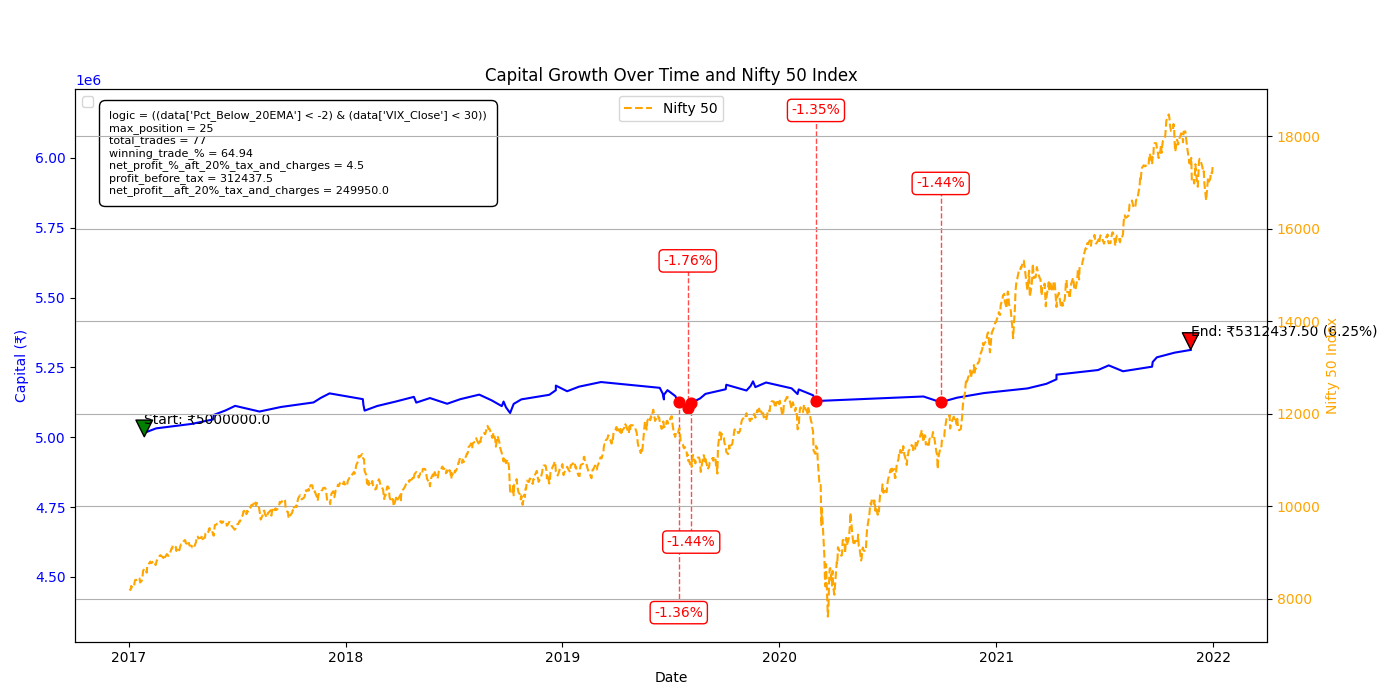
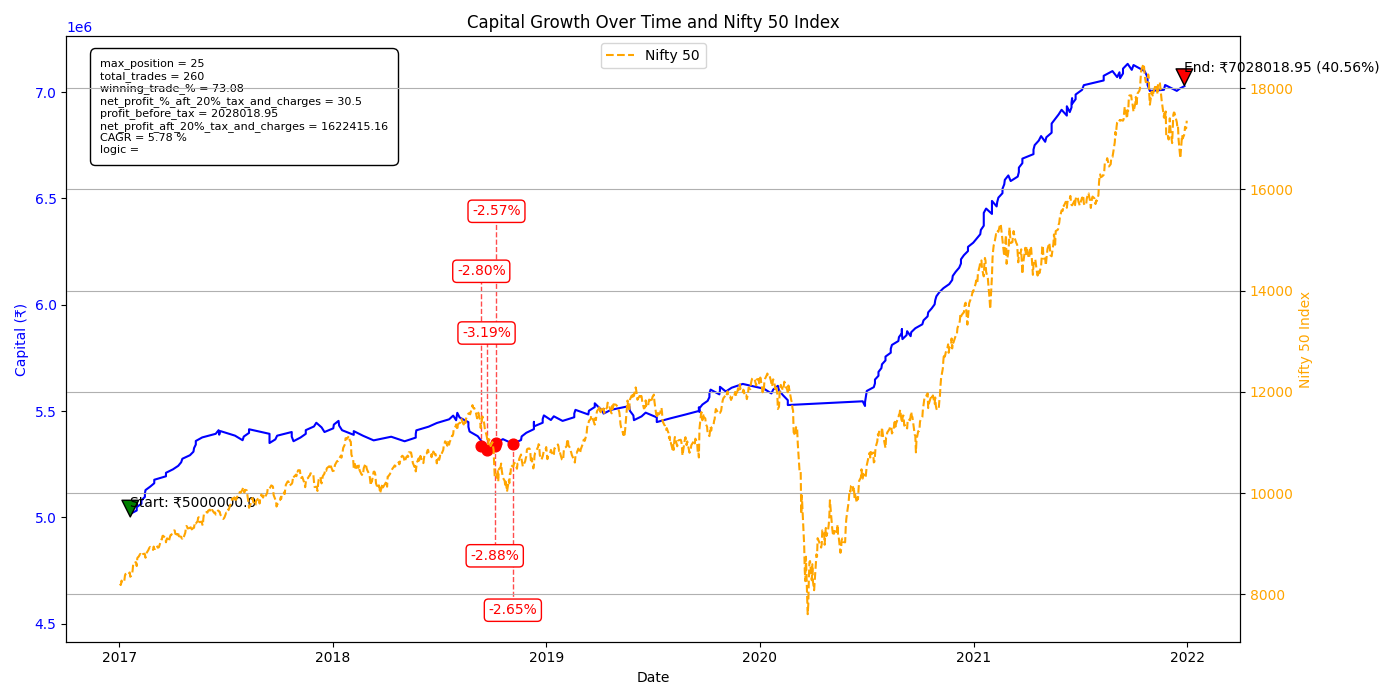
today

diff --git a/02.SwingTrade_BackTest/3.main_test1_with_vix_1.py b/02.SwingTrade_BackTest/3.main_test1_with_vix_1.py
@@ -655,16 +655,38 @@ def mark_signals(enctoken, symbol, start_date, end_date):
     #cond_buy_text = "((data['Pct_Below_20EMA'] < -2) & (data['VIX_Close'] < 30)) & (~block_first_5)"  # ← No trades in first 5 days after red month
     # Detect swing low: Current low is minimum in a 5-bar window (2 left, current, 2 right)
     ####################################################
-    window = 5
-    mid = window // 2
-    Swing_Low = data['Low'].rolling(5, center=True).min() == data['Low']
-    Uptrend= data['EMA20'] > data['EMA50']
-    #cond_buy_text = "(data['Swing_Low'] & data['Uptrend'] & (data['VIX_Close'] < 30))"
-    cond_buy_text = "(Swing_Low & Uptrend & (data['VIX_Close'] < 30))"
+    # --- 2-days-ago Swing Low Logic ---
+    # Using your existing swing low logic
+    low_2d_ago = data['Low'].shift(2)
+
+    cond_swing_low = (
+                             data['Low'] > low_2d_ago.shift(0)  # today > 2d ago
+                     ) & (
+                             data['Low'].shift(1) > low_2d_ago  # yesterday > 2d ago
+                     ) & (
+                             data['Low'].shift(3) > low_2d_ago  # 3 days ago > 2d ago
+                     ) & (
+                             data['Low'].shift(4) > low_2d_ago  # 4 days ago > 2d ago
+                     )
+
+    # Mark Swing Low at 2-days-ago row
+    Swing_Low_idx = cond_swing_low[cond_swing_low].index - 2  # get actual index 2 days ago
+
+    # Initialize Buy_Signal column
+    data['Buy_Signal'] = np.nan
+
+    # Assign Buy Price = CLOSE of the swing low day (2-days-ago)
+    data.loc[Swing_Low_idx, 'Buy_Signal'] = data.loc[Swing_Low_idx, 'Close']
+
+    # Optional: Filter by Uptrend + VIX
+    Uptrend = data['EMA20'] > data['EMA50']
+    cond_buy = Uptrend & (data['VIX_Close'] < 30) & data['Buy_Signal'].notna()
+    cond_buy_text =""
+    # Final Buy Signal (price)
+    data.loc[~cond_buy, 'Buy_Signal'] = np.nan
+
     ####################################################
-    cond_buy = eval(cond_buy_text)
-    ################
-    data.loc[cond_buy, 'Buy_Signal'] = data.loc[cond_buy, 'Close']
+
     data.loc[cond_buy, 'StopLoss'] = data.loc[cond_buy, 'Buy_Signal'] * 0.90
     data.loc[cond_buy, 'Avg_Down_Level'] = data.loc[cond_buy, 'Buy_Signal'] * 0.97
     data.loc[cond_buy, 'Target'] = data.loc[cond_buy, 'Buy_Signal'] * 1.08
